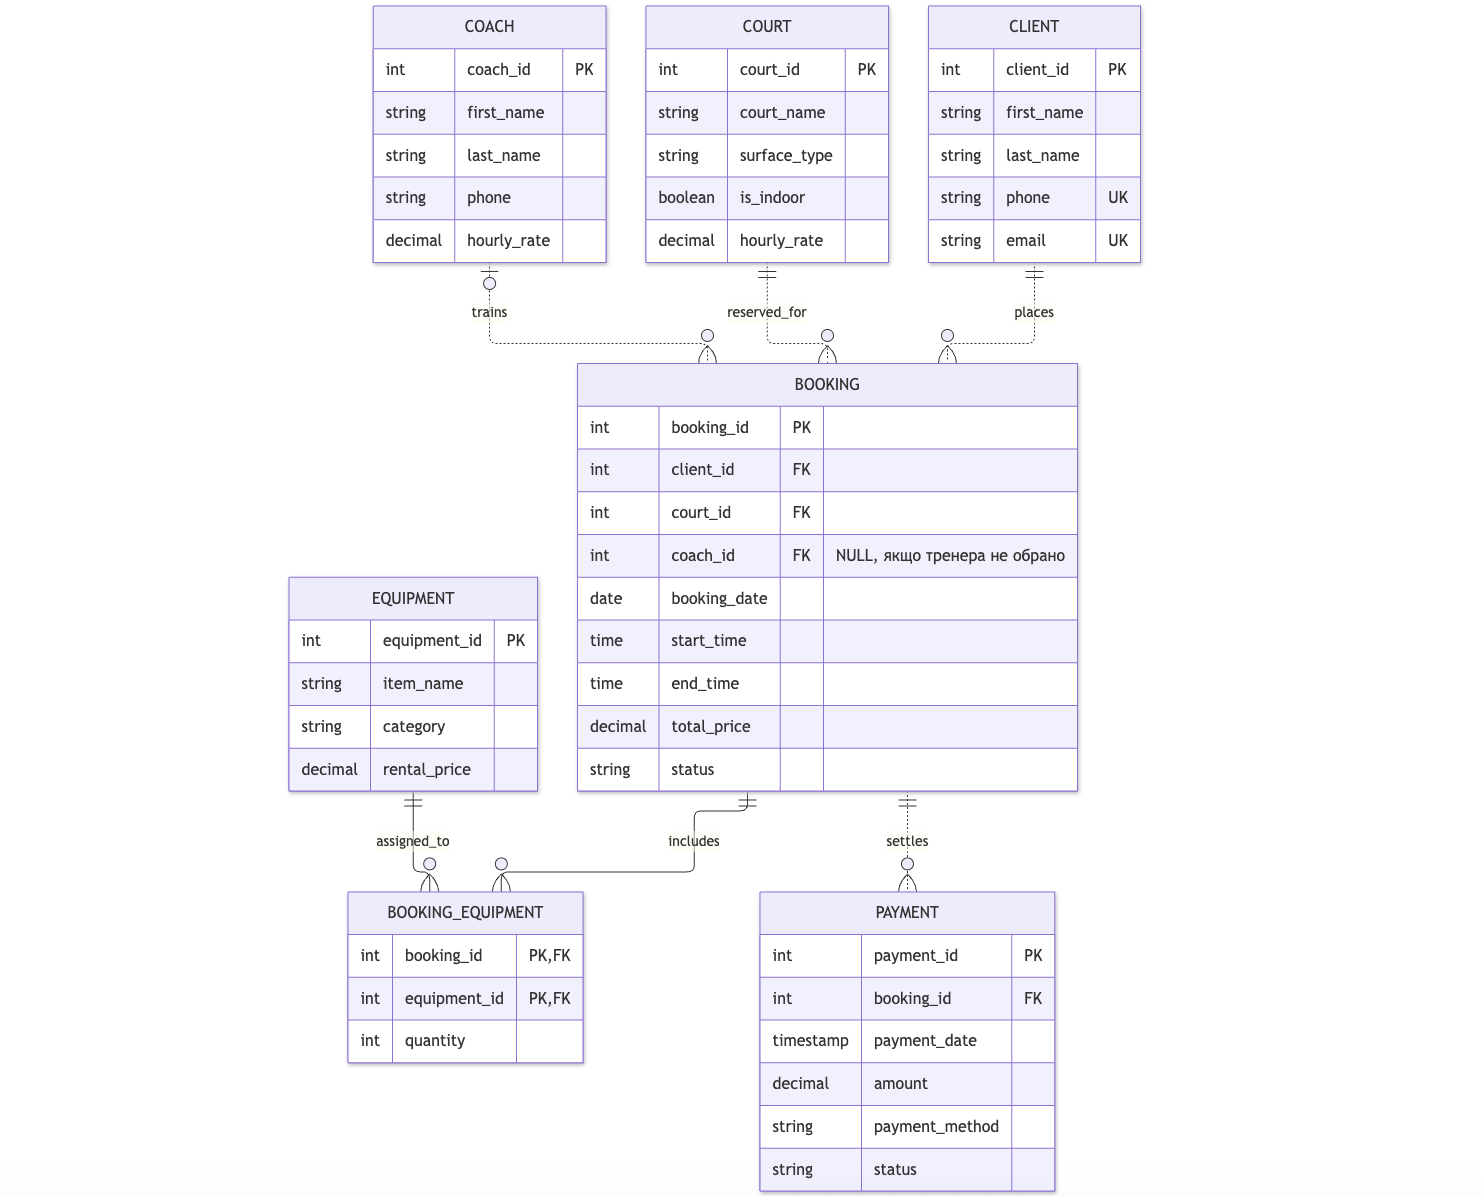
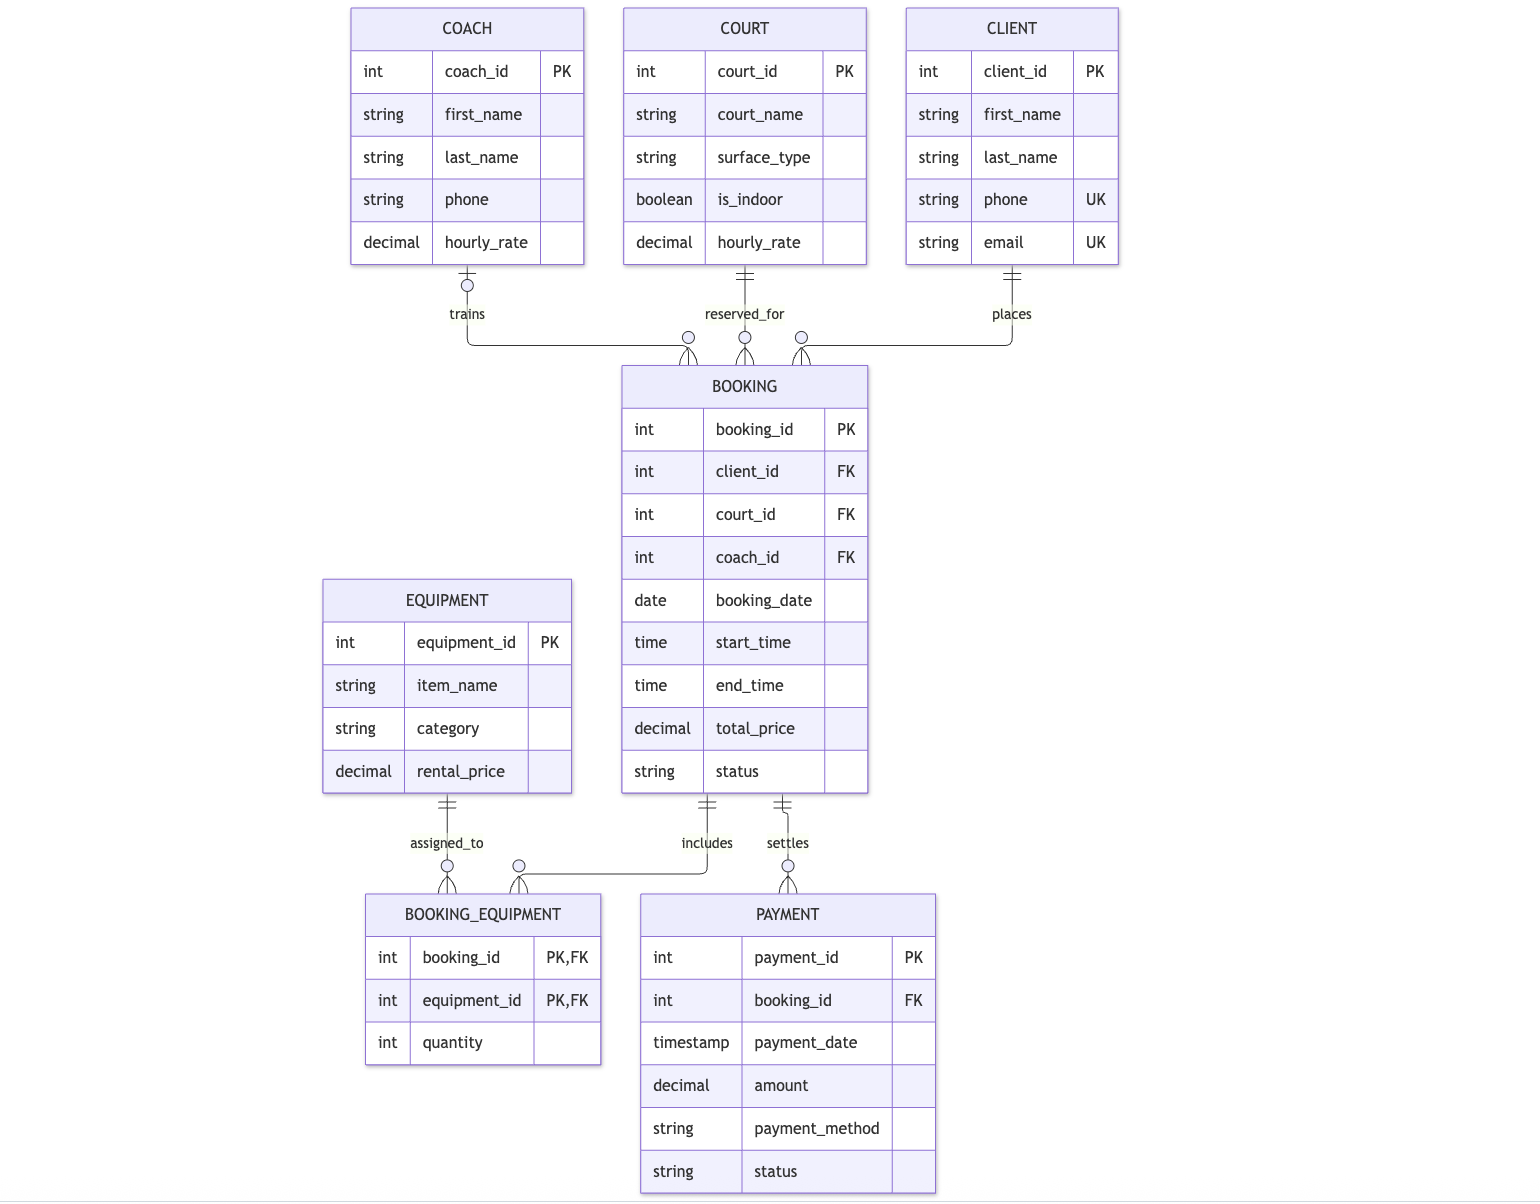
feat(lab1): add er diagram and requirements

Changed region(s): [[0.1862, 0.0, 0.776, 1.0], [0.6208, 0.2784, 0.6518, 0.3094]]

diff --git a/README.md b/README.md
@@ -1,85 +1,87 @@
-# Лабораторна робота №1: Концептуальне проєктування БД
+Лабораторна робота №1: Концептуальне проєктування БД
+Тема: База даних для обліку та бронювання тенісних кортів
+Виконав: Коваленко Максим Олегович Група: IM-53
 
-**Тема:** База даних для обліку та бронювання тенісних кортів  
-**Виконав:** Коваленко Максим Олегович
-**Група:** IM-53  
+## 1. Призначення системи
 
----
+Система автоматизує процеси тенісного клубу: оренду кортів (ґрунт, хард), запис до тренерів на індивідуальні заняття та прокат інвентарю.
 
-1. Призначення системи
-Клуб здає в оренду тенісні корти (ґрунтові та хардові), надає послуги тренерів для індивідуальних занять і видає спортивний інвентар (ракетки, м'ячі).
+### Основні задачі:
+- Ведення розкладу без часових накладок для кортів і тренерів.
+- Розрахунок підсумкової вартості замовлення.
+- Облік клієнтів, ресурсів клубу та платежів.
 
-Головне завдання системи — вести розклад ігрових сесій, не допускати одночасного запису двох людей на один корт чи до одного тренера, а також рахувати оплату за корт, роботу тренера та прокат спорядження.
-Що повинна вміти система:
-- Зберігати контакти клієнтів (ПІБ, телефон, email).
-- Вести список доступних кортів (назва, тип покриття, ціна за годину).
-- Зберігати дані про тренерів клубу та їхню погодинну ставку.
-- Створювати записи про бронювання на конкретний день і проміжок часу.
-- Додавати до замовлення ракетки або м'ячі у потрібній кількості.
-- Фіксувати суму та статус оплати за кожну гру.
-Бізнес-правила:
-1. Для клієнта потрібно вказати хоча б один контакт: телефон або email. Кожен вказаний телефон та email мають бути унікальними.
-2. Корт бронюється на проміжок часу всередині одного дня (час завершення пізніший за час початку).
-3. На один корт у той самий час не може бути оформлено більше одного активного бронювання.
-4. Тренер є опціональним: клієнт може грати сам або запросити інструктора.
-5. Якщо тренер зайнятий на одному корті, його не можна призначити на інший на цей же час.
-6. В одне замовлення можна включити кілька різних предметів інвентарю.
+### Бізнес-правила:
+- У клієнта має бути вказаний телефон або email.
+- Бронювання діє в межах однієї доби (start_time < end_time).
+- Корт і тренер не можуть мати два активні бронювання на один і той самий час.
+- Бронювати корт можна з тренером або без нього.
+- До замовлення можна додати кілька видів інвентарю у потрібній кількості.
 
-2. ER-діаграма
-Файл діаграми: er-diagram.mmd
+## 2. ER-діаграма
 
-3. Сутності та атрибути
-- Client — клієнти клубу
-  - client_id (PK) — унікальний номер
-  - first_name, last_name — ім'я та прізвище
-  - phone — унікальний номер телефону; може бути відсутнім, якщо вказано email
-  - email — унікальна адреса електронної пошти; може бути відсутня, якщо вказано телефон
-- Court — майданчики для гри
-  - court_id (PK) — номер корта
-  - court_name — назва (наприклад, «Центральний», «Корт №2»)
-  - surface_type — покриття (ґрунт, хард)
-  - is_indoor — чи розташований корт у приміщенні
-  - hourly_rate — базова вартість оренди за 1 годину
-- Coach — тренерський склад
-  - coach_id (PK) — код тренера
-  - first_name, last_name — ПІБ
-  - phone — контактний номер
-  - hourly_rate — вартість послуг тренера за 1 годину
-- Equipment — каталог прокатного спорядження
-  - equipment_id (PK) — код товару
-  - item_name — найменування (ракетка Head, кошик м'ячів тощо)
-  - category — категорія інвентарю (ракетки, м'ячі)
-  - rental_price — ціна прокату за одну штуку
-- Booking — основний запис про оренду
-  - booking_id (PK) — номер бронювання
-  - client_id (FK) — хто грає
-  - court_id (FK) — який корт обрано
-  - coach_id (FK, NULL) — обраний тренер (якщо грають без нього — поле порожнє)
-  - booking_date — дата
-  - start_time, end_time — інтервал гри
-  - total_price — зафіксована загальна вартість бронювання
-  - status — поточний стан (new, confirmed, completed, cancelled)
-- Booking_Equipment — видане спорядження під замовлення
-  - booking_id (FK), equipment_id (FK) — складений ключ (PK)
-  - quantity — скільки штук узято
-- Payment — платіжна транзакція
-  - payment_id (PK) — номер платежу
-  - booking_id (FK) — до якої гри прив'язаний розрахунок
-  - payment_date — дата й час створення спроби оплати
-  - amount — сума конкретної спроби оплати
-  - payment_method — спосіб розрахунку (картка або готівка)
-  - status — стан платежу (pending, success, failed)
+Файл діаграми: [er-diagram.mmd](./er-diagram.mmd)
 
-4. Зв'язки між сутностями
-- Клієнт і Бронювання (1:N): один клієнт за час користування сервісом може забронювати корт багато разів, але кожна окрема бронь оформлюється на одного замовника.
-- Корт і Бронювання (1:N): на корті щодня проходить багато різних ігор, але за конкретною бронею закріплюється лише один корт.
-- Тренер і Бронювання: один тренер може проводити заняття за багатьма бронюваннями, але кожне бронювання має нуль або одного тренера. Якщо клієнт грає без тренера, coach_id дорівнює NULL.
-- Бронювання та Інвентар (M:N через Booking_Equipment): під час однієї гри клієнти можуть орендувати декілька ракеток і м'ячі. Водночас ракетки однієї марки видаються різним гравцям у різні дні. Для цього зроблено окрему проміжну таблицю з фіксацією кількості.
-- Бронювання та Платіж (1:N): замовлення прив'язується до платежів. Зв'язок 1:N дозволяє зафіксувати невдалу спробу оплати та наступну повторну успішну транзакцію.
+## 3. Сутності та атрибути
 
-5. Припущення та обмеження
-1. Контроль розкладу: первинні та зовнішні ключі пов'язують таблиці між собою, але не перевіряють зайнятість корта чи тренера. Перевірку перетинів часу потрібно реалізувати окремо, враховуючи й одночасні запити на бронювання. У цій концептуальній моделі механізм такої перевірки ще не реалізований.
-2. Скасування замість видалення: якщо клієнт скасовує гру, запис Booking не стирається з бази, а переходить у статус cancelled. Це потрібно, щоб бачити історію відмов і звіряти розрахунки.
-3. Розрахунок чека: вартість замовлення складається з оренди корта, роботи тренера (якщо його обрано) та прокату спорядження. Погоджена сума зберігається в Booking.total_price, щоб зміна тарифів не змінювала вартість уже оформленого бронювання. У Payment.amount зберігається сума окремої спроби оплати.
-Підсумок
-Розроблено концептуальну ER-модель для тенісного клубу з 7 таблиць. Схема відокремлює клієнтів, ресурси клубу (корти, тренери, інвентар) та самі події бронювання й оплати, що запобігає дублюванню інформації та дозволяє зручно керувати розкладом.
+### Client
+- client_id (PK) - ідентифікатор клієнта
+- first_name, last_name - ім'я та прізвище
+- phone (UNIQUE, може бути NULL) - номер телефону
+- email (UNIQUE, може бути NULL) - електронна пошта
+
+### Court
+- court_id (PK) - ідентифікатор корта
+- court_name - назва (наприклад, "Центральний", "Корт 2")
+- surface_type - тип покриття (clay, hard)
+- is_indoor (BOOLEAN) - критий чи відкритий
+- hourly_rate - вартість оренди за 1 годину
+
+### Coach
+- coach_id (PK) - ідентифікатор тренера
+- first_name, last_name - ім'я та прізвище
+- phone (UNIQUE) - контактний номер
+- hourly_rate - ставка за 1 годину
+
+### Equipment
+- equipment_id (PK) - ідентифікатор позиції
+- item_name - найменування
+- category - категорія (ракетки, м'ячі)
+- rental_price - вартість оренди за одиницю
+
+### Booking
+- booking_id (PK) - ідентифікатор бронювання
+- client_id (FK -> Client) - клієнт
+- court_id (FK -> Court) - вибраний корт
+- coach_id (FK -> Coach, може бути NULL) - тренер
+- booking_date - дата бронювання
+- start_time, end_time - час початку та завершення
+- total_price - підсумкова вартість замовлення
+- status - стан бронювання (new, confirmed, completed, cancelled)
+
+### Booking_Equipment
+- booking_id (PK, FK -> Booking)
+- equipment_id (PK, FK -> Equipment)
+- quantity - кількість одиниць інвентарю
+
+### Payment
+- payment_id (PK) - ідентифікатор платежу
+- booking_id (FK -> Booking) - бронювання
+- payment_date - дата і час транзакції
+- amount - сума оплати
+- payment_method - спосіб оплати (card, cash)
+- status - результат транзакції (pending, success, failed)
+
+## 4. Зв'язки між сутностями
+
+- Client - Booking (1:N): один клієнт може оформити багато бронювань.
+- Court - Booking (1:N): один корт бронюється багато разів на різний час.
+- Coach - Booking (1:N): один тренер може вести багато занять, але бронювання може бути і без тренера.
+- Booking - Equipment (M:N): в одне замовлення можна додати різний інвентар через таблицю Booking_Equipment.
+- Booking - Payment (1:N): до одного бронювання може бути кілька платежів (наприклад, невдала спроба і повторна оплата).
+
+## 5. Припущення та обмеження
+
+- Під час створення записів перевіряється, щоб у клієнта був вказаний хоча б один контакт, а час початку гри був меншим за час закінчення.
+- Якщо клієнт скасовує бронювання, запис не видаляється з бази, а отримує статус cancelled. При цьому сам час на корті знову стає вільним для нових записів.
+- Загальна сума замовлення (корт + тренер + інвентар) одразу зберігається в полі total_price, щоб зміна цін у майбутньому не впливала на старі бронювання.
